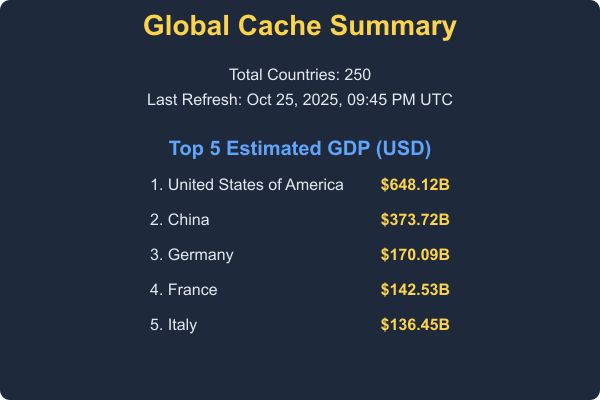
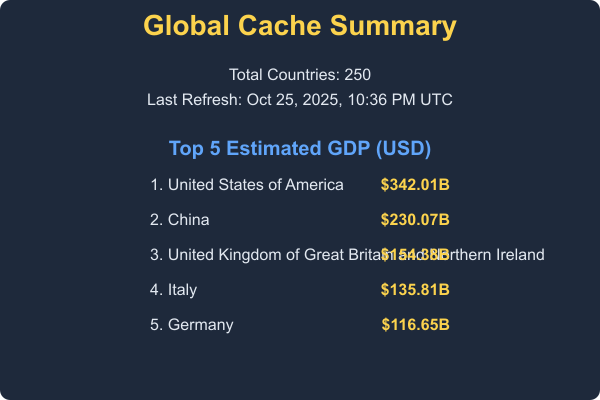
feat: enhance GDP calculation and data processing with validation checks

diff --git a/src/services/countryService.js b/src/services/countryService.js
@@ -11,10 +11,10 @@ const STATUS_TABLE = 'status';
  * Calculates a new estimated GDP for a country.
  * @param {number} population
  * @param {number} exchangeRate
- * @returns {number} The calculated GDP.
+ * @returns {number|null} The calculated GDP.
  */
 function calculateGdp(population, exchangeRate) {
-    // FIX: If population is 0, we cannot estimate GDP. Return null.
+    // If population is 0, we cannot estimate GDP. Return null.
     if (population === 0 || exchangeRate === null || exchangeRate === 0) return null;
     
     // Generate random multiplier between 1000 and 2000
@@ -34,7 +34,8 @@ function calculateGdp(population, exchangeRate) {
 function processCountryData(externalCountries, rates) {
     const now = new Date().toISOString();
     
-    return externalCountries.map(country => {
+    // Use filter/map pipeline to process and then filter invalid results
+    const processed = externalCountries.map(country => {
         let currencyCode = null;
         let exchangeRate = null;
         let estimatedGdp = null;
@@ -42,7 +43,7 @@ function processCountryData(externalCountries, rates) {
         const population = country.population || 0; // Use 0 if missing
 
         // 1. Currency Handling
-        if (country.currencies && country.currencies.length > 0) {
+        if (country.currencies && Array.isArray(country.currencies) && country.currencies.length > 0) {
             currencyCode = country.currencies[0].code;
             
             // 2. Exchange Rate & GDP Calculation
@@ -62,6 +63,14 @@ function processCountryData(externalCountries, rates) {
             estimatedGdp = null; 
         }
 
+        // Check for required data integrity *before* upserting
+        if (!country.name || population === 0 || !currencyCode) {
+            // Return null if mandatory fields are missing/invalid
+            console.warn(`Skipping country due to missing essential data: Name: ${country.name}, Pop: ${population}, Code: ${currencyCode}`);
+            return null;
+        }
+
+
         // 3. Prepare final object for DB
         return {
             name: country.name,
@@ -75,74 +84,96 @@ function processCountryData(externalCountries, rates) {
             last_refreshed_at: now
         };
     });
+
+    // Filter out null entries created by the validation check above
+    return processed.filter(c => c !== null);
 }
 
 /**
  * Fetches data from external APIs, processes it, and updates the database cache.
  */
 async function refreshCache() {
-    // 1. Fetch External Data
-    const [countriesData, exchangeRates] = await Promise.all([
-        fetchCountries(),
-        fetchExchangeRates()
-    ]);
-    
-    // 2. Process Data
-    const processedCountries = processCountryData(countriesData, exchangeRates);
-    const now = new Date().toISOString();
+    console.log("Starting cache refresh..."); // Added logging
+    try {
+        // 1. Fetch External Data
+        const [countriesData, exchangeRates] = await Promise.all([
+            fetchCountries(),
+            fetchExchangeRates()
+        ]);
+        
+        // 2. Process Data and filter invalid records
+        const processedCountries = processCountryData(countriesData, exchangeRates);
+        const now = new Date().toISOString();
 
-    // 3. Perform Upsert (Update or Insert) using PostgreSQL's ON CONFLICT
-    const { error: upsertError } = await supabase
-        .from(COUNTRIES_TABLE)
-        .upsert(processedCountries, {
-            onConflict: 'name', 
-            ignoreDuplicates: false
-        });
+        if (processedCountries.length === 0) {
+            console.warn("No valid countries found after processing. Aborting upsert.");
+            throw new CustomError('No valid country data to save after processing.', 500);
+        }
 
-    if (upsertError) {
-        console.error("Database Upsert Error:", upsertError);
-        throw new CustomError('Database operation failed during refresh', 500);
+        // 3. Perform Upsert (Update or Insert) using PostgreSQL's ON CONFLICT
+        console.log(`Attempting to upsert ${processedCountries.length} records...`); // Added logging
+        const { error: upsertError } = await supabase
+            .from(COUNTRIES_TABLE)
+            .upsert(processedCountries, {
+                onConflict: 'name', 
+                ignoreDuplicates: false
+            });
+
+        if (upsertError) {
+            // CRITICAL LOGGING: Now included to debug database failures
+            console.error('--- Database Upsert Error ---');
+            console.error('Supabase Error Code:', upsertError.code);
+            console.error('Supabase Error Details:', upsertError.details);
+            console.error('Supabase Error Message:', upsertError.message);
+            console.error('-----------------------------');
+            throw new CustomError('Database operation failed during refresh', 500);
+        }
+        
+        // 4. Update Global Status
+        const { count, error: countError } = await supabase
+            .from(COUNTRIES_TABLE)
+            .select('*', { count: 'exact', head: true });
+
+        if (countError) {
+            console.error("Database Count Error:", countError);
+            throw new CustomError('Failed to count countries after refresh', 500);
+        }
+
+        const { data: statusData, error: statusError } = await supabase
+            .from(STATUS_TABLE)
+            .upsert({ 
+                id: 1, 
+                total_countries: count, 
+                last_refreshed_at: now 
+            })
+            .select()
+            .single();
+        
+        if (statusError) {
+            console.error("Database Status Update Error:", statusError);
+            throw new CustomError('Failed to update global status', 500);
+        }
+
+        // 5. Generate Summary Image (Async, does not block response)
+        const { data: top5, error: top5Error } = await supabase
+            .from(COUNTRIES_TABLE)
+            .select('*')
+            .not('estimated_gdp', 'is', null) // <-- Filter is still here
+            .order('estimated_gdp', { ascending: false })
+            .limit(5);
+
+        if (!top5Error && statusData) {
+            generateSummaryImage(top5, statusData);
+        }
+
+        console.log(`Cache refresh complete. Total countries: ${count}`); // Added logging
+        return { total_countries: count, last_refreshed_at: now };
+
+    } catch (err) {
+        // Re-throw the error for the controller to handle
+        console.error("Cache Refresh Fatal Error:", err.message); // Added logging
+        throw err;
     }
-    
-    // 4. Update Global Status
-    const { count, error: countError } = await supabase
-        .from(COUNTRIES_TABLE)
-        .select('*', { count: 'exact', head: true });
-
-    if (countError) {
-        console.error("Database Count Error:", countError);
-        throw new CustomError('Failed to count countries after refresh', 500);
-    }
-
-    const { data: statusData, error: statusError } = await supabase
-        .from(STATUS_TABLE)
-        .upsert({ 
-            id: 1, 
-            total_countries: count, 
-            last_refreshed_at: now 
-        })
-        .select()
-        .single();
-    
-    if (statusError) {
-        console.error("Database Status Update Error:", statusError);
-        throw new CustomError('Failed to update global status', 500);
-    }
-
-    // 5. Generate Summary Image (Async, does not block response)
-    // FIX: Explicitly filter out NULL GDPs for the top 5 image data.
-    const { data: top5, error: top5Error } = await supabase
-        .from(COUNTRIES_TABLE)
-        .select('*')
-        .not('estimated_gdp', 'is', null) // <-- Added filter
-        .order('estimated_gdp', { ascending: false }) // nullsLast is no longer strictly necessary, but we'll remove it for clarity since we are filtering.
-        .limit(5);
-
-    if (!top5Error && statusData) {
-        generateSummaryImage(top5, statusData);
-    }
-
-    return { total_countries: count, last_refreshed_at: now };
 }
 
 /**
@@ -206,7 +237,7 @@ async function getCountries({ region, currency, sort }) {
         // Apply sort order (nullsLast is no longer needed since we filter NULLs for GDP sort)
         query = query.order(sortColumn, { ascending, nullsLast: (field !== 'gdp') }); 
     } else {
-         // Default sort
+        // Default sort
         query = query.order('name', { ascending: true });
     }
 
